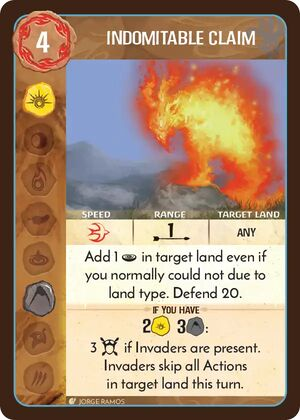
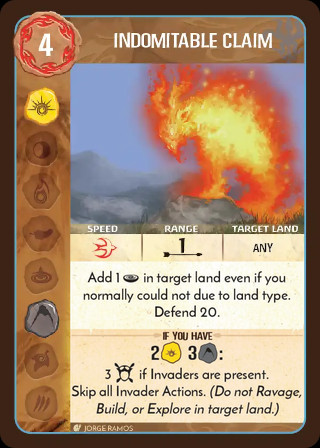
use new wordings for some cards
documented in
https://boardgamegeek.com/thread/2943690/complete-list-of-all-card-changes-between-base-and

I did not do every card listed there, only the ones that had a useful
clarification.

Note some threshold position changes required

Closes https://github.com/nathanj/spirit-island-pbp/issues/72

diff --git a/pbf/models.py b/pbf/models.py
@@ -1031,7 +1031,7 @@ card_thresholds = {
 "Inflame the Fires of Life": [ (40, 79, '3N') ],
 "Nature's Resilience": [ (40, 78, '2W') ],
 "Renewing Rain": [ (40, 78, '3P') ],
-"Sap the Strength of Multitudes": [ (40, 78, '1A') ],
+"Sap the Strength of Multitudes": [ (40, 76, '1A') ],
 "Savage Mawbeasts": [ (40, 79, '3N') ],
 "Scour the Land": [ (40, 78, '3A') ],
 "Steam Vents": [ (41, 79, '3E') ],
@@ -1083,7 +1083,7 @@ card_thresholds = {
 "Talons of Lightning": [ (35, 76, '3F3A') ],
 "Terrifying Nightmares": [ (38, 78, '4M') ],
 "The Jungle Hungers": [ (33, 76, '2M3P') ],
-"The Land Thrashes in Furious Pain": [ (35, 78, '3M3E') ],
+"The Land Thrashes in Furious Pain": [ (35, 71, '3M3E') ],
 "The Trees and Stones Speak of War": [ (30, 76, '2S2E2P') ],
 "The Wounded Wild Turns on its Assailants": [ (30, 73, '2F3P2N') ],
 "Thickets Erupt with Every Touch of Breeze": [ (38, 80, '3P') ],
